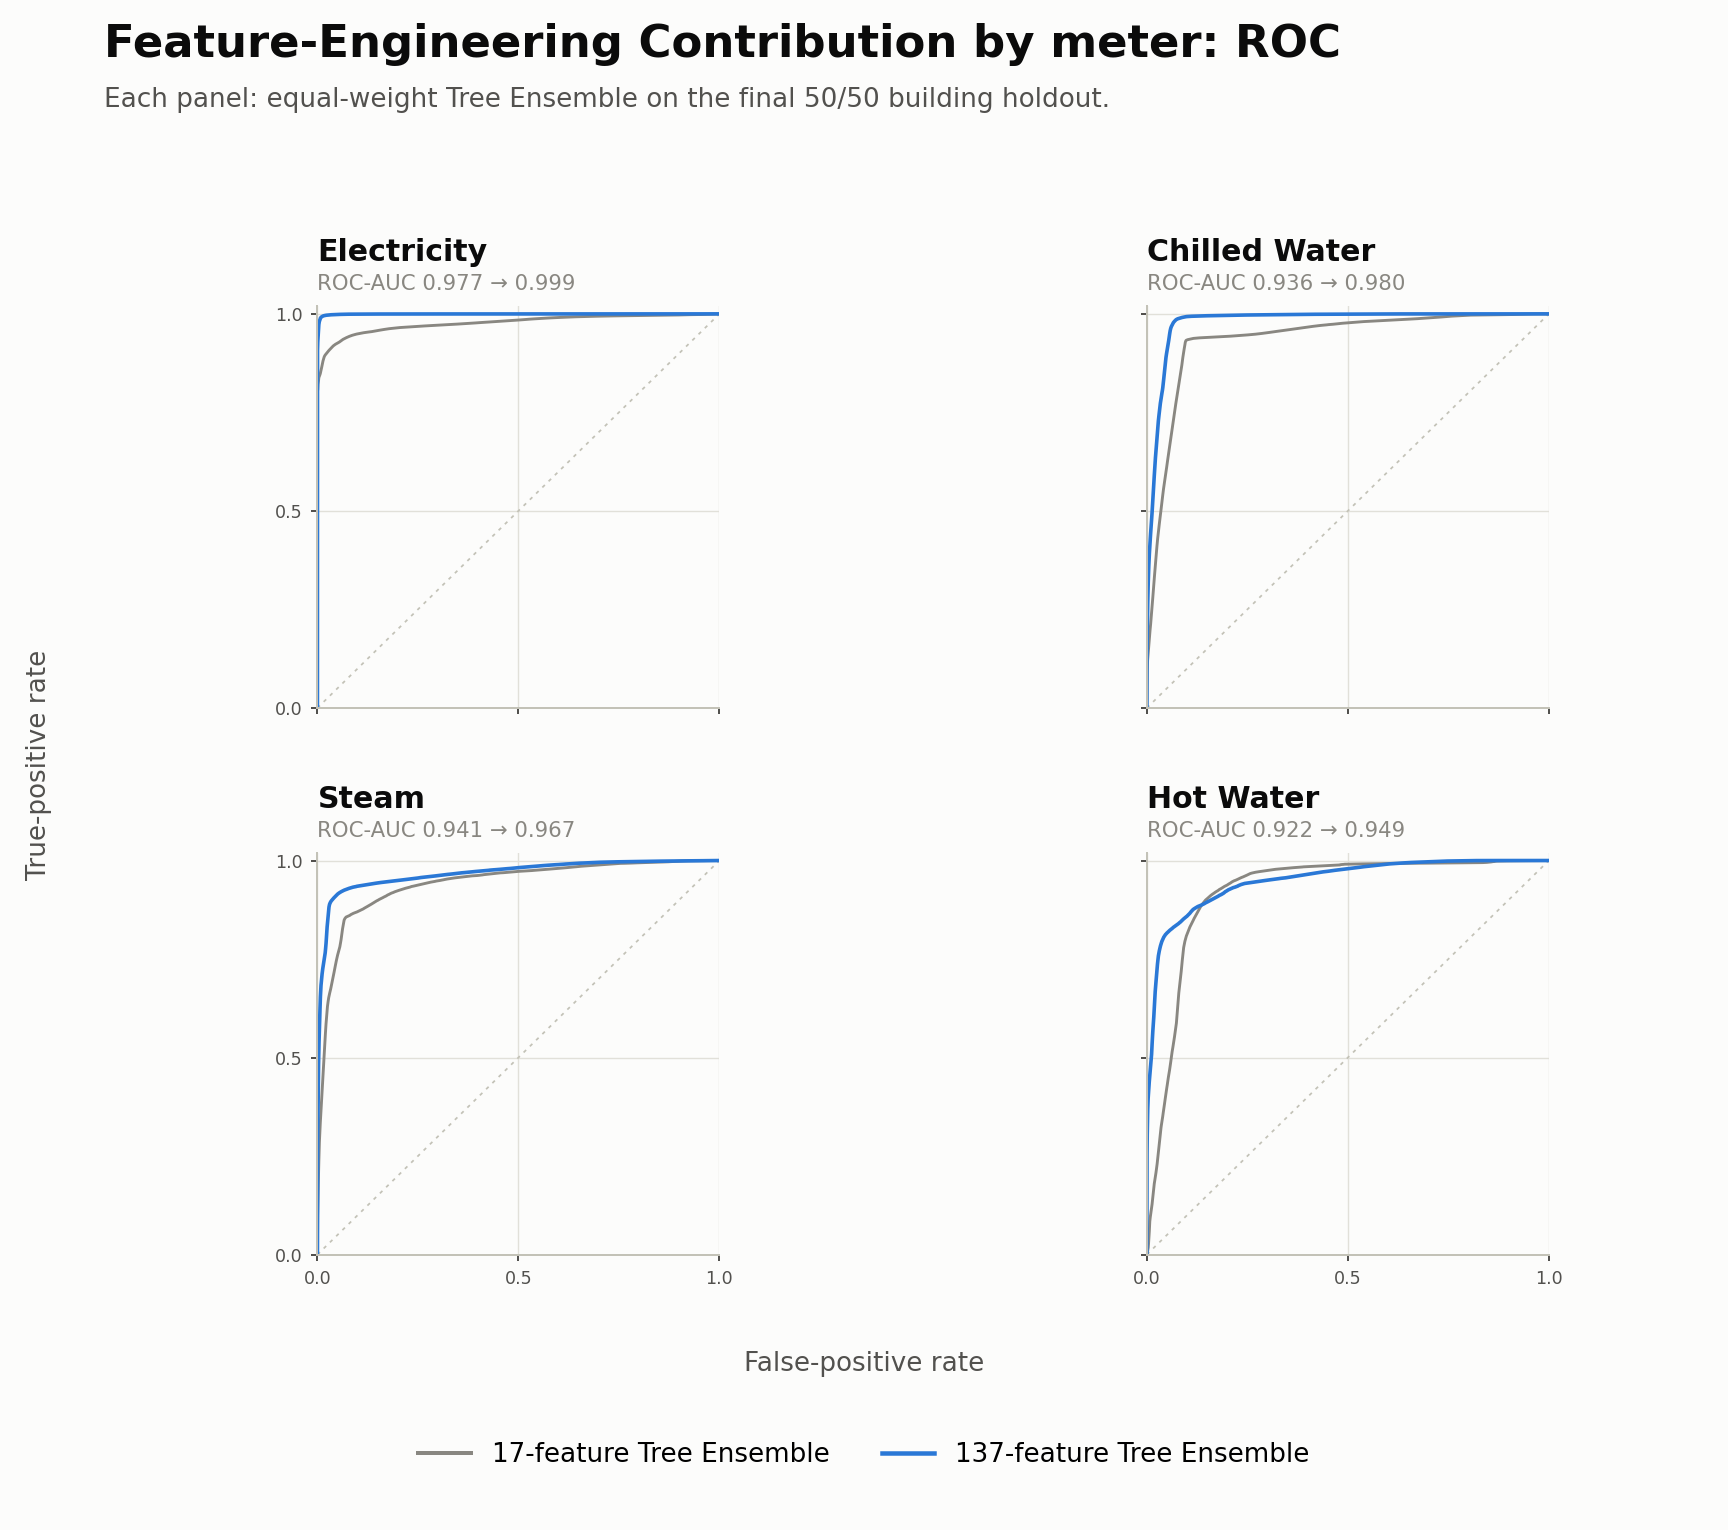
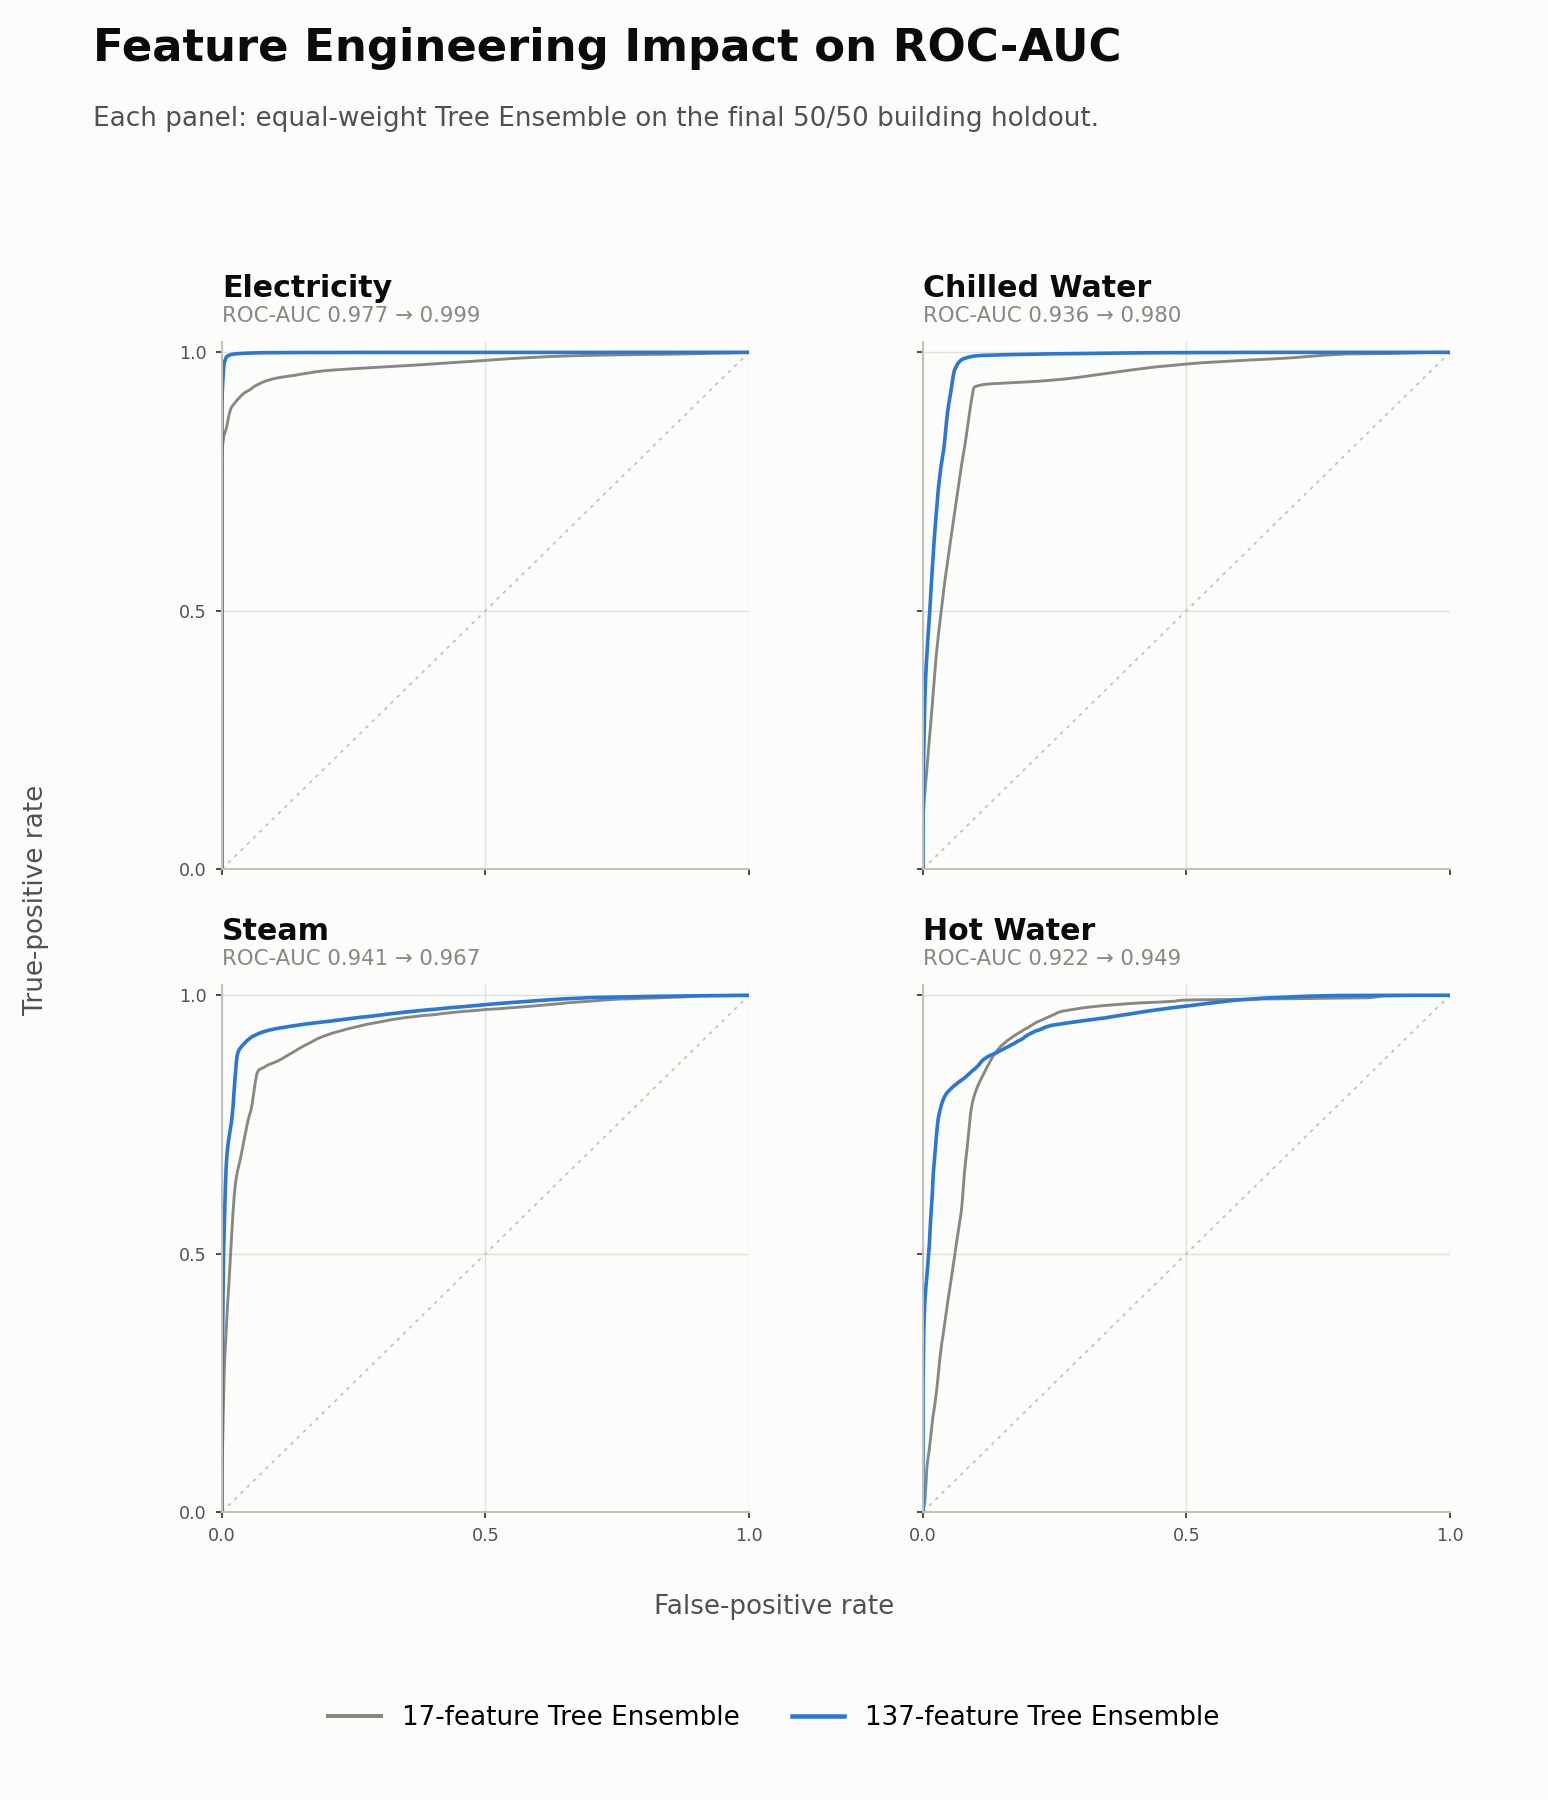
Tighten M3 meter grid layout

diff --git a/scripts/plot_m3_tree_ensemble_by_meter.py b/scripts/plot_m3_tree_ensemble_by_meter.py
@@ -212,7 +212,7 @@ def render_grid(
     if len(results) != len(METER_SPECS):
         raise ValueError("expected exactly four meter results")
 
-    fig, axes = plt.subplots(2, 2, figsize=(9.6, 8.5), sharex=True, sharey=True)
+    fig, axes = plt.subplots(2, 2, figsize=(8.6, 10.0), sharex=True, sharey=True)
     fig.patch.set_facecolor(SURFACE)
     for ax, result in zip(axes.ravel(), results, strict=True):
         _style_axis(ax)
@@ -251,9 +251,9 @@ def render_grid(
             color=MUTED,
         )
 
-    metric = "ROC" if curve_type == "roc" else "Precision–Recall"
+    metric = "ROC-AUC" if curve_type == "roc" else "PR-AUC"
     fig.suptitle(
-        f"Feature-Engineering Contribution by meter: {metric}",
+        f"Feature Engineering Impact on {metric}",
         x=0.06,
         y=0.985,
         ha="left",
@@ -282,7 +282,7 @@ def render_grid(
         color=SECONDARY,
     )
     fig.subplots_adjust(
-        left=0.10, right=0.98, top=0.80, bottom=0.18, wspace=0.20, hspace=0.36
+        left=0.10, right=0.98, top=0.81, bottom=0.16, wspace=0.06, hspace=0.22
     )
     fig.legend(
         handles=[
